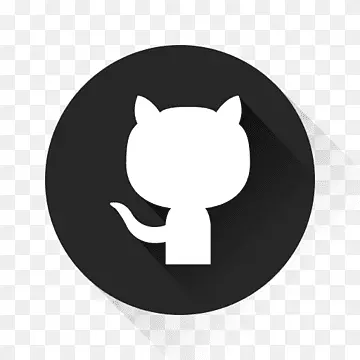
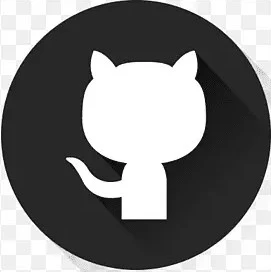
Added Social Media Images

diff --git a/index.html b/index.html
@@ -1,30 +1,31 @@
 <!DOCTYPE html>
 <html lang="en">
-  <head>
-    <meta charset="UTF-8" />
-    <meta name="viewport" content="width=device-width, initial-scale=1.0" />
-    <link rel="stylesheet" href="./style.css" />
-    <title>HTML CSS Projects</title>
-  </head>
-  <body>
-    <h1>HTML CSS Projects</h1>
-    <div id="container">
-    </div>
 
-    <div class="social-link">
-      <a class="meta-link" href="https://github.com/moheebk123" target="_blank">
-        <span>GitHub</span>
-      </a>
+<head>
+  <meta charset="UTF-8" />
+  <meta name="viewport" content="width=device-width, initial-scale=1.0" />
+  <link rel="stylesheet" href="./style.css" />
+  <title>HTML CSS Projects</title>
+</head>
 
-      <a
-        class="meta-link"
-        href="https://www.linkedin.com/in/moheebkhan/"
-        target="_blank"
-      >
-        <span>LinkedIn</span>
-      </a>
-    </div>
+<body>
+  <h1>HTML CSS Projects</h1>
+  <div id="container">
+  </div>
 
-    <script src="./index.js"></script>
-  </body>
+  <div class="social-link">
+    <a class="meta-link" href="https://github.com/moheebk123" target="_blank">
+      <img src="./assets/GitHub.webp" alt="GitHub Logo">
+      <span>GitHub</span>
+    </a>
+
+    <a class="meta-link" href="https://www.linkedin.com/in/moheebkhan/" target="_blank">
+      <img src="./assets/LinkedIn.webp" alt="LinkedIn Logo">
+      <span>LinkedIn</span>
+    </a>
+  </div>
+
+  <script src="./index.js"></script>
+</body>
+
 </html>

diff --git a/style.css b/style.css
@@ -16,7 +16,7 @@ body {
   background: #002339;
   overflow-x: hidden;
 
-  & > h1 {
+  &>h1 {
     color: #fff;
     text-align: center;
   }
@@ -136,30 +136,14 @@ body {
         border: 1px solid rgba(255, 255, 255, 0.2);
       }
 
-      & i {
-        font-size: 25px;
-
-        &.fa-github {
-          color: #fff;
-          background-color: #000;
-          border-radius: 50%;
-          -webkit-border-radius: 50%;
-          -moz-border-radius: 50%;
-          -ms-border-radius: 50%;
-          -o-border-radius: 50%;
-        }
-
-        &.fa-linkedin {
-          color: rgb(0, 162, 255);
-          background-color: #fff;
-          border-radius: 6px;
-          padding-top: 2px;
-          padding-inline: 2px;
-          overflow: hidden;
-        }
+      &>img {
+        height: 35px;
+        width: 35px;
+        border-radius: 50%;
+        object-fit: cover;
       }
 
-      & > span {
+      &>span {
         color: white;
         font-weight: 500;
       }
